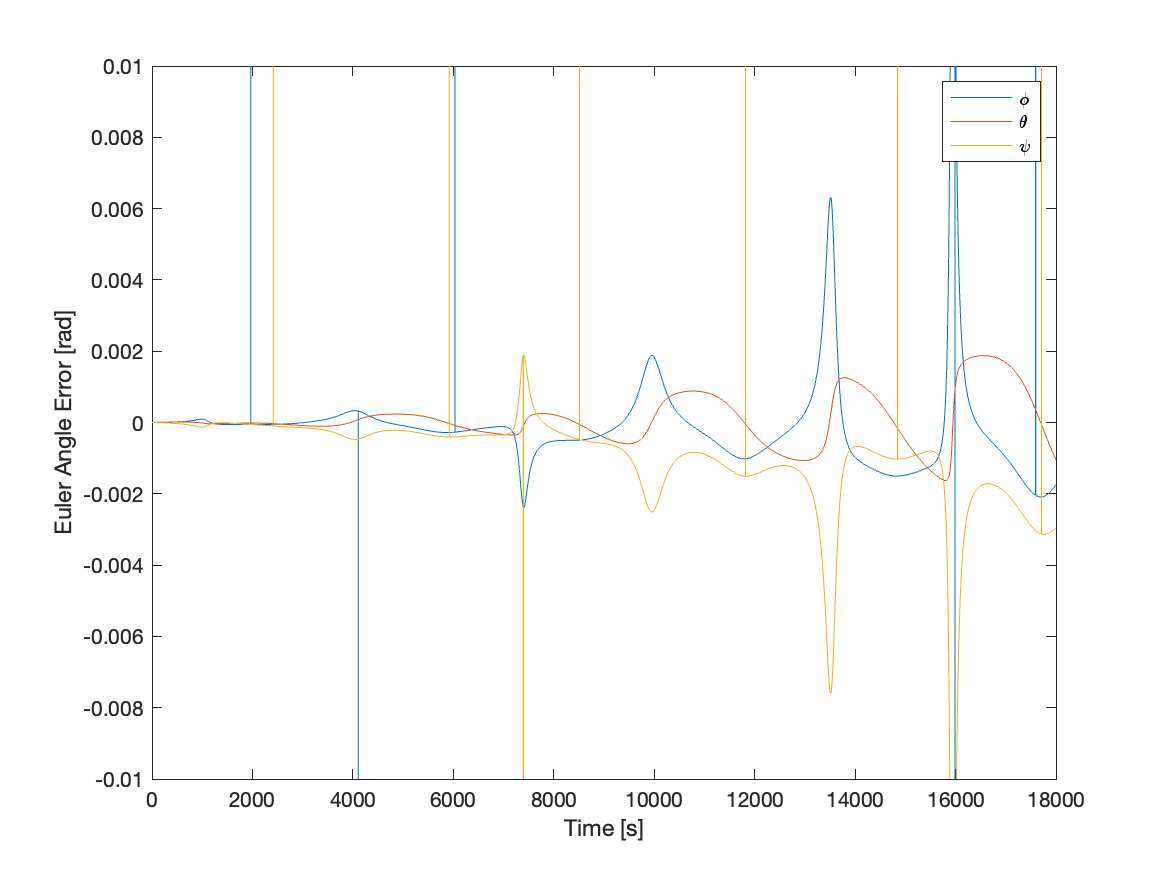
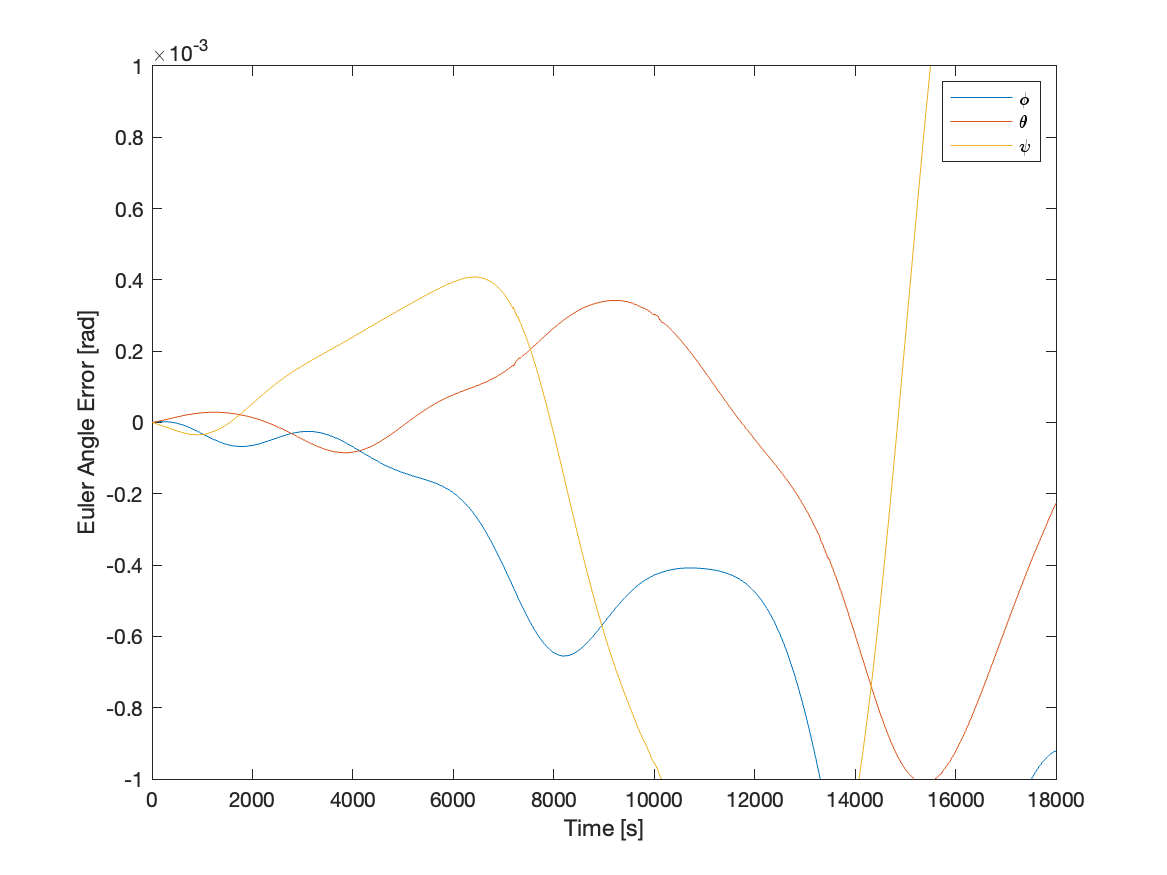
Change Euler angle error plot PS7 problem 6

diff --git a/src/ps7.m b/src/ps7.m
@@ -145,8 +145,15 @@ legend('w_{x}','w_{y}','w_{z}')
 saveAsBool(gcf,'Images/ps7_problem5a_angvel_sim.png',savePlots)
 
 % Errors
+eulerError = size(state(:,1:3));
+for i = 1:length(t)
+    A_MEKF = e2A(euler(:,i));
+    A_Sim = e2A(state(i,1:3));
+    eulerError(i,1:3) = A2e(A_MEKF * A_Sim');
+end
+
 figure()
-plot(t,wrapToPi(euler(:,1:end-1)') - wrapToPi(state(:,1:3)))
+plot(t,wrapToPi(eulerError))
 ylim([-0.01 0.01])
 xlabel('Time [s]')
 ylabel('Euler Angle Error [rad]')
